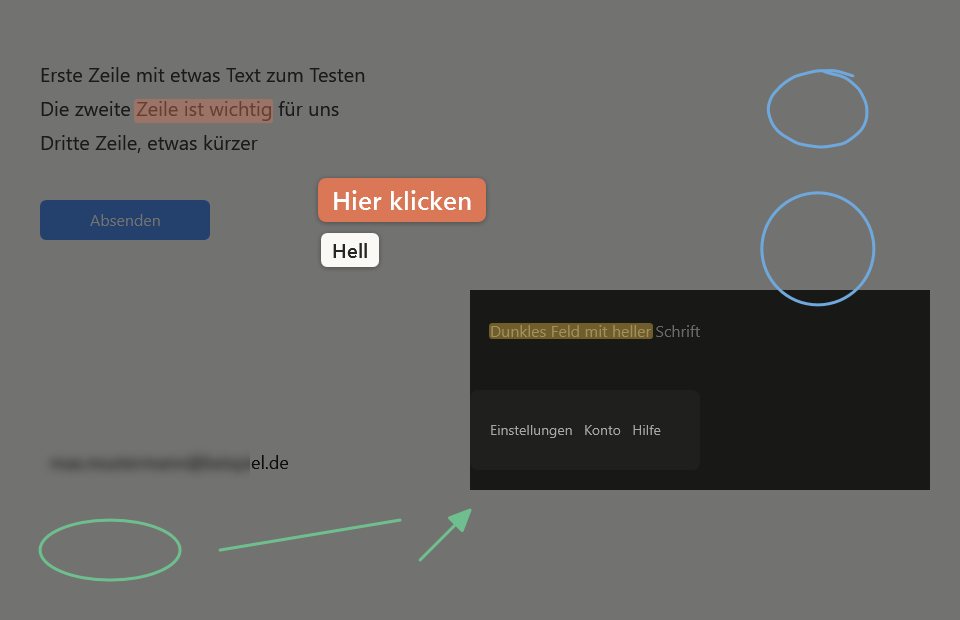
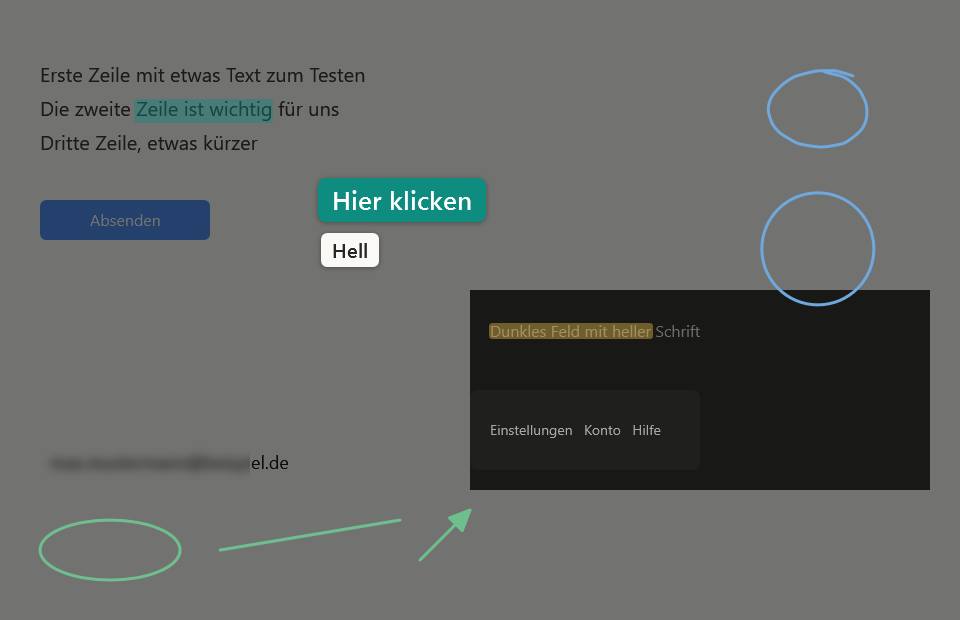
Show the turquoise look in the README images and changelog
The screenshots are the re-rendered pixel test references.

Changed region(s): [[0.3125, 0.2758, 0.5312, 0.3677], [0.125, 0.1532, 0.2812, 0.2145]]

diff --git a/CHANGELOG.md b/CHANGELOG.md
@@ -6,6 +6,15 @@ All notable changes to this project are documented here. The format follows
 
 ## [Unreleased]
 
+### Changed
+- The brand colour is now turquoise instead of terracotta: settings window, cards, editor,
+  selection overlay, recording frame, countdown, click highlights, trim window, the first ink
+  colour and the app and tray icon. Lines and icons use #0E8C80 in the light theme and
+  #2AC8A6 in the dark theme; buttons and handles with light text use #0B7F74 (4.6:1), darker
+  #096A61 while hovered or pressed. Hovering a primary button darkens it instead of fading it,
+  so its label keeps its contrast. The recording red and the settings window's error text
+  are unchanged.
+
 ## [1.1.0] - 2026-11-13
 
 ### Fixed
